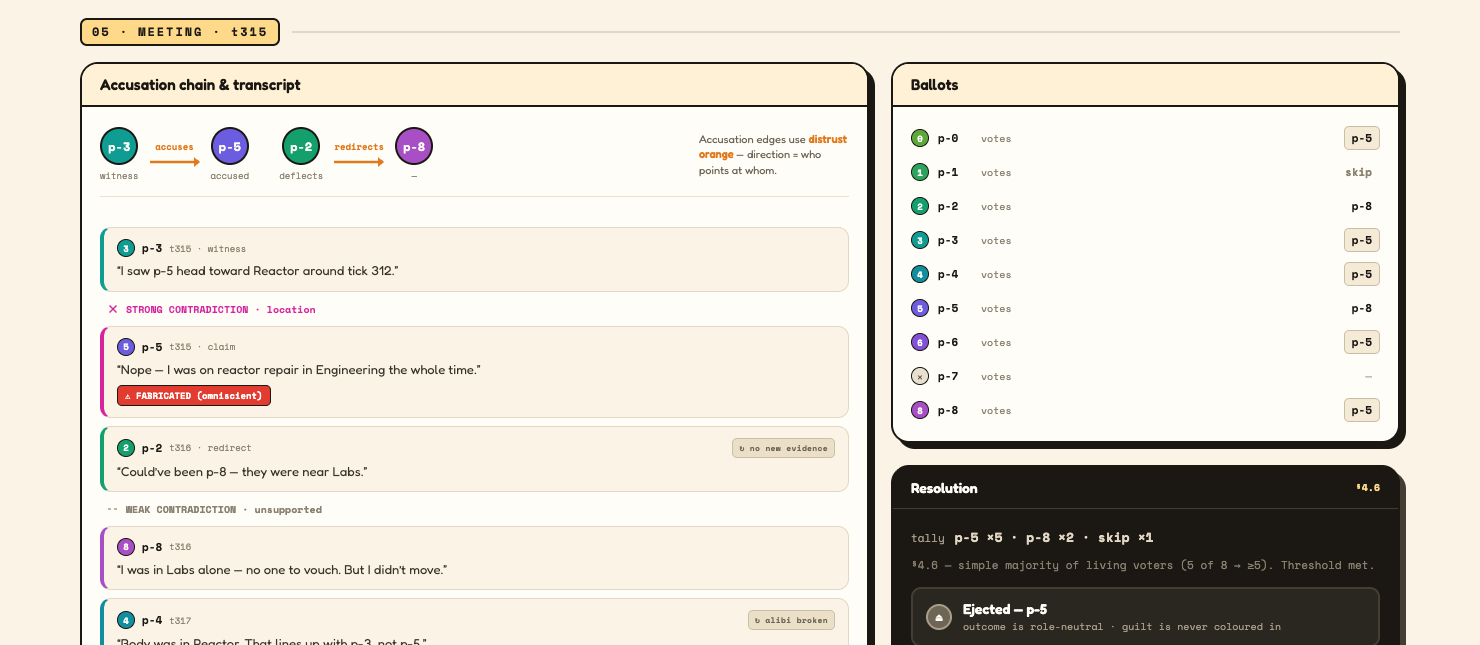
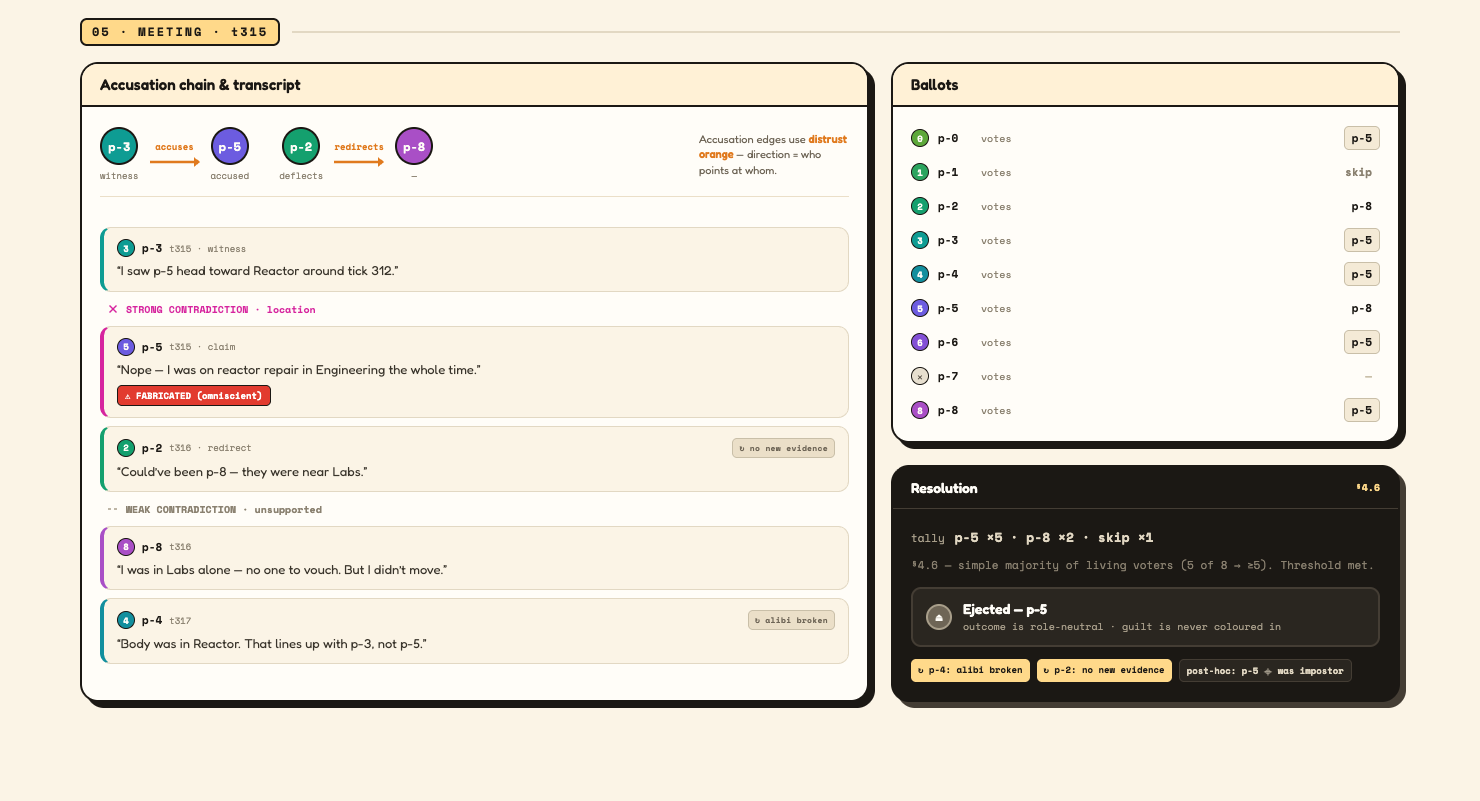
Fix meeting screenshot (was viewport-clipped) + add matrix Ground-truth state
05-meeting.png lost its bottom because the capture viewport (4600px) was shorter than the section's clip bottom; recaptured at 7200px so the full transcript + ballots + §4.6 resolution are included. Added 04-matrix-ground-truth.png (the third toggle layer: impostor daggers + witnessed sighting). README lists all three matrix layers.

diff --git a/design/phase-12/playful-system/README.md b/design/phase-12/playful-system/README.md
@@ -14,7 +14,8 @@ every build session (web or local) has it WITHOUT the transient/authenticated Cl
   - `01-foundations.png` — tokens / ramps / identity palette / type / `tokens.ts` → **12.1** target.
   - `02-map.png` — the canonical_1 floorplan → **12.5**.
   - `03-two-truths.png` — Omniscient + As-agent fog → **12.5** (fog).
-  - `04-matrix-belief.png` + `04-matrix-error.png` — the 9×9 matrix, Belief and (toggled) **Error** layers → **12.6**.
+  - `04-matrix-belief.png` / `04-matrix-ground-truth.png` / `04-matrix-error.png` — the 9×9 matrix's three toggle
+    layers (Belief, Ground-truth, Error) → **12.6**.
   - `05-meeting.png` — accusation chain + ballots → **12.7**.
   Any state re-renders from the `.dc.html` (system Chrome, e.g. `uv run --with playwright …`) — a web build agent can do
   the same for verification.
